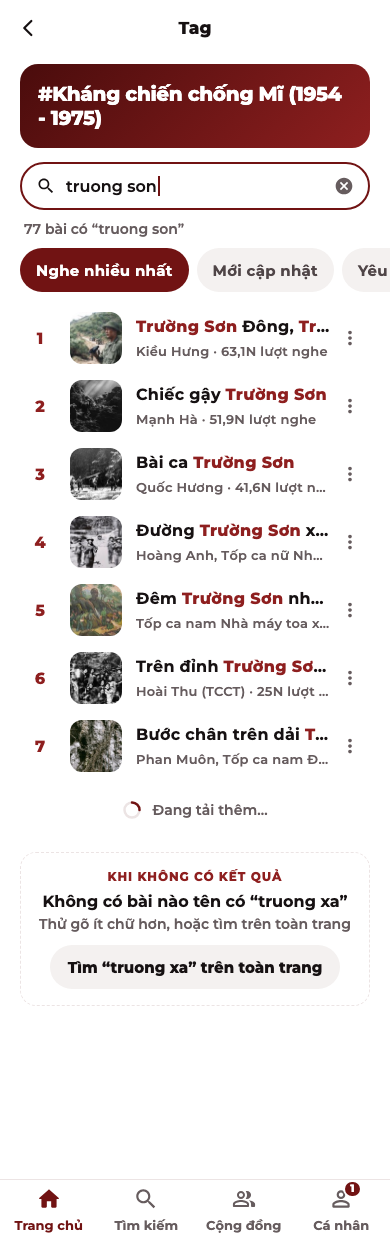
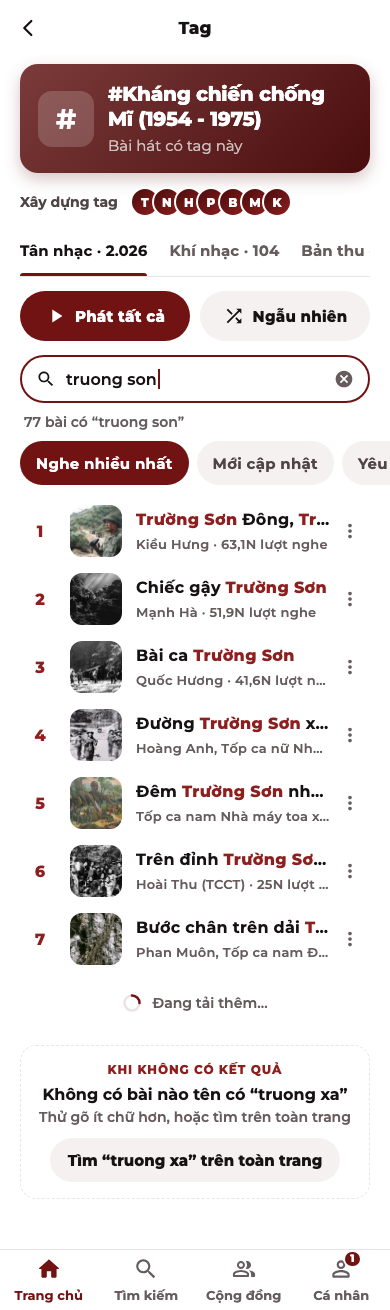
feat(app): tab trang tag cùng kiểu trang nghệ sĩ, thêm nút Ngẫu nhiên
- Tag: tab "Tân nhạc · 2.026" chữ đậm, gạch đỏ rượu 3pt (như tab trang nghệ sĩ);
  bỏ dòng tên loại + số bài thừa dưới tab
- Thể loại, Tag: Phát tất cả + Ngẫu nhiên chia đôi bề ngang (như Thập niên, Yêu thích)
- Canvas: TheLoai, TimTrongDanhSach vẽ lại theo app

diff --git a/design/canvas/project/TimTrongDanhSach.dc.html b/design/canvas/project/TimTrongDanhSach.dc.html
@@ -14,7 +14,7 @@ body{margin:0}
 a{color:#8E1F1F;text-decoration:none}a:hover{color:#711313}
 </style>
 </helmet>
-<div style="width: 390px; height: 1240px; background: #FFFFFF; font-family: Montserrat, sans-serif; color: #161112; display: flex; flex-direction: column; overflow: hidden">
+<div style="width: 390px; height: 1310px; background: #FFFFFF; font-family: Montserrat, sans-serif; color: #161112; display: flex; flex-direction: column; overflow: hidden">
 
 <div style="height: 56px; flex-shrink: 0; display: flex; align-items: center; position: relative">
 <a href="Main.dc.html" aria-label="Quay lại" style="width: 56px; height: 56px; display: flex; align-items: center; justify-content: center; color: #161112"><svg width="20" height="20" viewBox="0 0 24 24" fill="none" stroke="currentColor" stroke-width="2.6" stroke-linecap="round" stroke-linejoin="round" aria-hidden="true"><path d="M16 3.5L7.5 12l8.5 8.5"></path></svg></a>
@@ -22,8 +22,19 @@ a{color:#8E1F1F;text-decoration:none}a:hover{color:#711313}
 </div>
 
 <div style="padding: 8px 20px 0; display: flex; flex-direction: column">
-<div style="display: flex; align-items: center; padding: 18px; border-radius: 18px; background: linear-gradient(135deg, #4A0C0C, #8E1F1F)">
-<span style="font-size: 20px; font-weight: 800; color: #FFFFFF; letter-spacing: -0.4px">#Kháng chiến chống Mĩ (1954 - 1975)</span>
+<!-- Hero tag -->
+<div style="display: flex; align-items: center; padding: 18px; border-radius: 18px; background: linear-gradient(135deg, #7A3B3A, #4A0D0D); box-shadow: 0 6px 16px rgba(122,59,58,0.3)">
+<span style="width: 56px; height: 56px; flex-shrink: 0; border-radius: 14px; background: rgba(255,255,255,0.18); display: flex; align-items: center; justify-content: center; color: #FFFFFF; font-size: 28px; font-weight: 700">#</span>
+<div style="margin-left: 14px; min-width: 0; display: flex; flex-direction: column"><span style="font-size: 20px; font-weight: 800; line-height: 1.25; letter-spacing: -0.3px; color: #FFFFFF">#Kháng chiến chống Mĩ (1954 - 1975)</span><span style="margin-top: 4px; font-size: 15px; color: rgba(255,255,255,0.7)">Bài hát có tag này</span></div>
+</div>
+<!-- Xây dựng tag -->
+<div style="margin-top: 14px; display: flex; align-items: center"><span style="font-size: 14px; font-weight: 700; color: #4F4547; margin-right: 12px">Xây dựng tag</span><span aria-hidden="true" style="width: 30px; height: 30px; margin-left: 0; border-radius: 15px; border: 2px solid #FFFFFF; box-sizing: border-box; background: linear-gradient(135deg, #4A0C0C, #8E1F1F); display: flex; align-items: center; justify-content: center; color: #FFFFFF; font-size: 12px; font-weight: 800">T</span><span aria-hidden="true" style="width: 30px; height: 30px; margin-left: -8px; border-radius: 15px; border: 2px solid #FFFFFF; box-sizing: border-box; background: linear-gradient(135deg, #4A0C0C, #8E1F1F); display: flex; align-items: center; justify-content: center; color: #FFFFFF; font-size: 12px; font-weight: 800">N</span><span aria-hidden="true" style="width: 30px; height: 30px; margin-left: -8px; border-radius: 15px; border: 2px solid #FFFFFF; box-sizing: border-box; background: linear-gradient(135deg, #4A0C0C, #8E1F1F); display: flex; align-items: center; justify-content: center; color: #FFFFFF; font-size: 12px; font-weight: 800">H</span><span aria-hidden="true" style="width: 30px; height: 30px; margin-left: -8px; border-radius: 15px; border: 2px solid #FFFFFF; box-sizing: border-box; background: linear-gradient(135deg, #4A0C0C, #8E1F1F); display: flex; align-items: center; justify-content: center; color: #FFFFFF; font-size: 12px; font-weight: 800">P</span><span aria-hidden="true" style="width: 30px; height: 30px; margin-left: -8px; border-radius: 15px; border: 2px solid #FFFFFF; box-sizing: border-box; background: linear-gradient(135deg, #4A0C0C, #8E1F1F); display: flex; align-items: center; justify-content: center; color: #FFFFFF; font-size: 12px; font-weight: 800">B</span><span aria-hidden="true" style="width: 30px; height: 30px; margin-left: -8px; border-radius: 15px; border: 2px solid #FFFFFF; box-sizing: border-box; background: linear-gradient(135deg, #4A0C0C, #8E1F1F); display: flex; align-items: center; justify-content: center; color: #FFFFFF; font-size: 12px; font-weight: 800">M</span><span aria-hidden="true" style="width: 30px; height: 30px; margin-left: -8px; border-radius: 15px; border: 2px solid #FFFFFF; box-sizing: border-box; background: linear-gradient(135deg, #4A0C0C, #8E1F1F); display: flex; align-items: center; justify-content: center; color: #FFFFFF; font-size: 12px; font-weight: 800">K</span></div>
+<!-- Tab loại bài: cùng kiểu tab trang nghệ sĩ ("Bài hát · 315") -->
+<div role="tablist" style="margin-top: 10px; height: 50px; box-sizing: border-box; border-bottom: 1px solid #ECE4E4; display: flex; overflow: hidden"><button aria-selected="true" role="tab" style="position: relative; flex-shrink: 0; height: 49px; margin: 0 22px 0 0; padding: 0 0 2px 0; letter-spacing: 0.1px; border: none; background: transparent; font-family: Montserrat, sans-serif; font-size: 15px; font-weight: 700; color: #161112; white-space: nowrap">Tân nhạc · 2.026<span style="position: absolute; left: 0; right: 0; bottom: 0; height: 3px; border-radius: 3px 3px 0 0; background: #711313"></span></button><button aria-selected="false" role="tab" style="position: relative; flex-shrink: 0; height: 49px; margin: 0 22px 0 0; padding: 0 0 2px 0; letter-spacing: 0.1px; border: none; background: transparent; font-family: Montserrat, sans-serif; font-size: 15px; font-weight: 700; color: #665C5E; white-space: nowrap">Khí nhạc · 104</button><button aria-selected="false" role="tab" style="position: relative; flex-shrink: 0; height: 49px; margin: 0 22px 0 0; padding: 0 0 2px 0; letter-spacing: 0.1px; border: none; background: transparent; font-family: Montserrat, sans-serif; font-size: 15px; font-weight: 700; color: #665C5E; white-space: nowrap">Bản thu · 42</button></div>
+<!-- Phát tất cả + Ngẫu nhiên (tên loại + số bài đã ở trên tab) -->
+<div style="display: flex; gap: 10px; margin-top: 14px">
+<button style="flex: 1; height: 50px; border-radius: 25px; border: none; background: #711313; color: #FFFFFF; font-family: Montserrat, sans-serif; font-size: 15px; font-weight: 800; letter-spacing: 0.23px; display: flex; align-items: center; justify-content: center; gap: 8px"><svg width="22" height="22" viewBox="0 0 24 24" aria-hidden="true"><path d="M8 5v14l11-7z" fill="currentColor"></path></svg>Phát tất cả</button>
+<button style="flex: 1; height: 50px; border-radius: 25px; border: none; background: #F4F1F0; color: #161112; font-family: Montserrat, sans-serif; font-size: 15px; font-weight: 800; letter-spacing: 0.23px; display: flex; align-items: center; justify-content: center; gap: 8px"><svg width="22" height="22" viewBox="0 0 24 24" aria-hidden="true"><path fill="currentColor" d="M10.59 9.17L5.41 4 4 5.41l5.17 5.17 1.42-1.41zM14.5 4l2.04 2.04L4 18.59 5.41 20 17.96 7.46 20 9.5V4h-5.5zm.33 9.41l-1.41 1.41 3.13 3.13L14.5 20H20v-5.5l-2.04 2.04-3.13-3.13z"></path></svg>Ngẫu nhiên</button>
 </div>
 <!-- Ô tìm khi đang gõ: tìm không dấu, "đ" = "d"; gõ xong ~0,4 giây thì tải; nút ⓧ xoá để về danh sách đầy đủ -->
 <div role="search" style="margin-top: 14px; height: 48px; box-sizing: border-box; border-radius: 24px; background: #FFFFFF; border: 2px solid #711313; display: flex; align-items: center; padding: 0 4px 0 14px; gap: 10px"><svg width="20" height="20" viewBox="0 0 24 24" fill="#161112" aria-hidden="true"><path d="M15.5 14h-.79l-.28-.27C15.41 12.59 16 11.11 16 9.5 16 5.91 13.09 3 9.5 3S3 5.91 3 9.5 5.91 16 9.5 16c1.61 0 3.09-.59 4.23-1.57l.27.28v.79l5 4.99L20.49 19l-4.99-5zm-6 0C7.01 14 5 11.99 5 9.5S7.01 5 9.5 5 14 7.01 14 9.5 11.99 14 9.5 14z"></path></svg><span style="flex: 1; font-size: 16px; font-weight: 600; color: #161112">truong son<span style="display: inline-block; width: 2px; height: 20px; margin-left: 1px; vertical-align: -4px; background: #711313"></span></span><button aria-label="Xoá ô tìm" style="width: 40px; height: 40px; border: none; border-radius: 20px; background: transparent; display: flex; align-items: center; justify-content: center; color: #665C5E"><svg width="20" height="20" viewBox="0 0 24 24" fill="currentColor" aria-hidden="true"><path d="M12 2C6.47 2 2 6.47 2 12s4.47 10 10 10 10-4.47 10-10S17.53 2 12 2zm5 13.59L15.59 17 12 13.41 8.41 17 7 15.59 10.59 12 7 8.41 8.41 7 12 10.59 15.59 7 17 8.41 13.41 12 17 15.59z"></path></svg></button></div>
@@ -55,7 +66,7 @@ a{color:#8E1F1F;text-decoration:none}a:hover{color:#711313}
 <dc-import name="TabBar" active="home" hint-size="390px,61px"></dc-import>
 </div>
 </x-dc>
-<script type="text/x-dc" data-dc-script data-props='{"$preview":{"width":390,"height":1240}}'>
+<script type="text/x-dc" data-dc-script data-props='{"$preview":{"width":390,"height":1310}}'>
 class Component extends DCLogic {
 renderVals() {
 return {};

diff --git a/lib/screens/tag_detail_screen.dart b/lib/screens/tag_detail_screen.dart
@@ -131,7 +131,7 @@ class _TagDetailScreenState extends State<TagDetailScreen> with PagedLoader {
     return out;
   }
 
-  void _playAll() {
+  void _playAll({bool shuffle = false}) {
     final st = _tabs[_activeType]!;
     if (st.items.isEmpty) return;
     final player = context.read<PlayerProvider>();
@@ -142,8 +142,10 @@ class _TagDetailScreenState extends State<TagDetailScreen> with PagedLoader {
       if (m['audioUrl'] != null) queue.add(m);
     }
     if (queue.isEmpty) return;
+    if (shuffle) queue.shuffle();
     player.playSong(queue.first, queue);
     player.setFetchMore(null);
+    if (shuffle && !player.shuffle) player.toggleShuffle();
   }
 
   Future<void> _fetchPage(String type, int page, {int? sort, bool append = false}) async {
@@ -265,16 +267,15 @@ class _TagDetailScreenState extends State<TagDetailScreen> with PagedLoader {
                           child: Container(
                             alignment: Alignment.center,
                             padding: const EdgeInsets.symmetric(vertical: 8),
+                            // Same look as the person page tabs: "Tân nhạc · 2.026",
+                            // dark bold when active over a 3pt wine bar.
                             decoration: BoxDecoration(
-                              border: Border(bottom: BorderSide(color: active ? AppColors.accentLight : Colors.transparent, width: 2)),
+                              border: Border(bottom: BorderSide(color: active ? AppColors.accent : Colors.transparent, width: 3)),
                             ),
-                            child: Row(mainAxisSize: MainAxisSize.min, children: [
-                              Text(t.$2, style: body(TextStyle(fontSize: 15, fontWeight: active ? FontWeight.w700 : FontWeight.w500, color: active ? AppColors.accentLight : AppColors.textSecondary))),
-                              if (total > 0) ...[
-                                const SizedBox(width: 6),
-                                Text('$total', style: body(TextStyle(fontSize: 14, fontWeight: FontWeight.w600, color: active ? AppColors.accentLight.withValues(alpha: 0.7) : AppColors.textMuted))),
-                              ],
-                            ]),
+                            child: Text(
+                              total > 0 ? '${t.$2} · ${_formatInt(total)}' : t.$2,
+                              style: body(TextStyle(fontSize: 15, fontWeight: FontWeight.w700, color: active ? AppColors.text : AppColors.textMuted)),
+                            ),
                           ),
                         );
                       },
@@ -282,14 +283,15 @@ class _TagDetailScreenState extends State<TagDetailScreen> with PagedLoader {
                   ),
                 ),
                 const SizedBox(height: 14),
-                Row(children: [
-                  Expanded(
-                    child: Text(activeLabel + (st.allTotal > 0 ? ' · ${_formatInt(st.allTotal)} bài' : ''), style: body(TextStyle(fontSize: 15, fontWeight: FontWeight.w700, color: AppColors.textSecondary))),
-                  ),
-                  if (st.items.isNotEmpty)
-                    PillButton(onTap: _playAll, icon: Icons.play_arrow, label: 'Phát tất cả', primary: true),
-                ]),
-                const SizedBox(height: 12),
+                // Kind and count are on the tab above: just the play buttons.
+                if (st.items.isNotEmpty) ...[
+                  Row(children: [
+                    Expanded(child: PillButton(onTap: () => _playAll(), icon: Icons.play_arrow, label: 'Phát tất cả', primary: true)),
+                    const SizedBox(width: 10),
+                    Expanded(child: PillButton(onTap: () => _playAll(shuffle: true), icon: Icons.shuffle, label: 'Ngẫu nhiên', primary: false)),
+                  ]),
+                  const SizedBox(height: 14),
+                ],
                 ListSearchField(hint: 'Tìm trong ${st.allTotal > 0 ? '${_formatInt(st.allTotal)} bài ' : ''}$activeLabel', onChanged: _search),
                 ListSearchSummary(query: _q, total: st.total, loading: st.loading),
                 const SizedBox(height: 14),

diff --git a/design/canvas/project/TheLoai.dc.html b/design/canvas/project/TheLoai.dc.html
@@ -27,8 +27,11 @@ a{color:#8E1F1F;text-decoration:none}a:hover{color:#711313}
 <span style="width: 56px; height: 56px; border-radius: 14px; background: rgba(255,255,255,0.18); display: flex; align-items: center; justify-content: center; flex-shrink: 0"><svg width="28" height="28" viewBox="0 0 24 24" fill="#FFFFFF" aria-hidden="true"><path d="M12 3v10.55c-.59-.34-1.27-.55-2-.55-2.21 0-4 1.79-4 4s1.79 4 4 4 4-1.79 4-4V7h4V3h-6z"></path></svg></span>
 <div style="margin-left: 14px; display: flex; flex-direction: column"><span style="font-size: 22px; font-weight: 800; color: #FFFFFF; letter-spacing: -0.44px">Tân nhạc</span><span style="margin-top: 4px; font-size: 15px; color: rgba(255,255,255,0.7)">14.107 bài</span></div>
 </div>
-<!-- Play all -->
-<div style="margin-top: 16px; display: flex"><button style="height: 48px; padding: 0 20px; border-radius: 24px; border: none; background: #711313; color: #FFFFFF; font-family: Montserrat, sans-serif; font-size: 15px; font-weight: 800; display: flex; align-items: center; gap: 8px"><svg width="22" height="22" viewBox="0 0 24 24" fill="currentColor" aria-hidden="true"><path d="M8 5v14l11-7z"></path></svg>Phát tất cả</button></div>
+<!-- Phát tất cả + Ngẫu nhiên (như Thập niên, Yêu thích) -->
+<div style="display: flex; gap: 10px; margin-top: 16px">
+<button style="flex: 1; height: 50px; border-radius: 25px; border: none; background: #711313; color: #FFFFFF; font-family: Montserrat, sans-serif; font-size: 15px; font-weight: 800; letter-spacing: 0.23px; display: flex; align-items: center; justify-content: center; gap: 8px"><svg width="22" height="22" viewBox="0 0 24 24" aria-hidden="true"><path d="M8 5v14l11-7z" fill="currentColor"></path></svg>Phát tất cả</button>
+<button style="flex: 1; height: 50px; border-radius: 25px; border: none; background: #F4F1F0; color: #161112; font-family: Montserrat, sans-serif; font-size: 15px; font-weight: 800; letter-spacing: 0.23px; display: flex; align-items: center; justify-content: center; gap: 8px"><svg width="22" height="22" viewBox="0 0 24 24" aria-hidden="true"><path fill="currentColor" d="M10.59 9.17L5.41 4 4 5.41l5.17 5.17 1.42-1.41zM14.5 4l2.04 2.04L4 18.59 5.41 20 17.96 7.46 20 9.5V4h-5.5zm.33 9.41l-1.41 1.41 3.13 3.13L14.5 20H20v-5.5l-2.04 2.04-3.13-3.13z"></path></svg>Ngẫu nhiên</button>
+</div>
 </div>
 
 <!-- Ô tìm theo tên -->

diff --git a/lib/screens/category_detail_screen.dart b/lib/screens/category_detail_screen.dart
@@ -107,7 +107,7 @@ class _CategoryDetailScreenState extends State<CategoryDetailScreen> with PagedL
     return n < 0 ? '-${buf.toString()}' : buf.toString();
   }
 
-  void _playAll() {
+  void _playAll({bool shuffle = false}) {
     if (_list.items.isEmpty) return;
     final player = context.read<PlayerProvider>();
     final queue = <Map<String, dynamic>>[];
@@ -117,8 +117,10 @@ class _CategoryDetailScreenState extends State<CategoryDetailScreen> with PagedL
       if (m['audioUrl'] != null) queue.add(m);
     }
     if (queue.isEmpty) return;
+    if (shuffle) queue.shuffle();
     player.playSong(queue.first, queue);
     player.setFetchMore(null);
+    if (shuffle && !player.shuffle) player.toggleShuffle();
   }
 
   @override
@@ -192,7 +194,9 @@ class _CategoryDetailScreenState extends State<CategoryDetailScreen> with PagedL
                         padding: const EdgeInsets.only(bottom: 14),
                         child: Row(
                           children: [
-                            PillButton(onTap: _playAll, icon: Icons.play_arrow, label: 'Phát tất cả', primary: true),
+                            Expanded(child: PillButton(onTap: () => _playAll(), icon: Icons.play_arrow, label: 'Phát tất cả', primary: true)),
+                            const SizedBox(width: 10),
+                            Expanded(child: PillButton(onTap: () => _playAll(shuffle: true), icon: Icons.shuffle, label: 'Ngẫu nhiên', primary: false)),
                           ],
                         ),
                       ),
